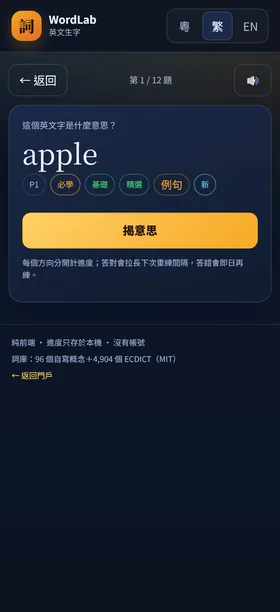
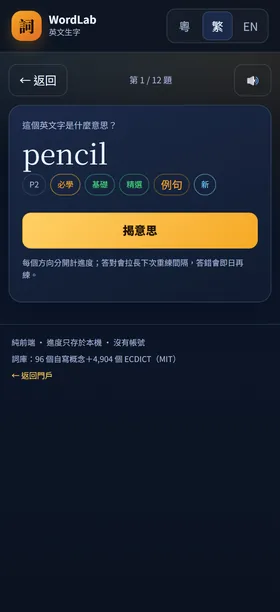
Update hub landing page

Changed region(s): [[0.0857, 0.2173, 0.4, 0.2794]]

diff --git a/wordlab/examples-pack7.js b/wordlab/examples-pack7.js
@@ -1,0 +1,102 @@
+window.WORDLAB_EXAMPLES = Object.assign(window.WORDLAB_EXAMPLES || {}, {
+  "medicine": { "exEn": "The medicine tastes bitter.", "exZh": "這藥很苦。", "source": "WordLab" },
+  "pain": { "exEn": "I have a pain in my leg.", "exZh": "我的腿很痛。", "source": "WordLab" },
+  "blood": { "exEn": "The cut has a little blood.", "exZh": "傷口有一點血。", "source": "WordLab" },
+  "bone": { "exEn": "The dog has a big bone.", "exZh": "狗有一根大骨頭。", "source": "WordLab" },
+  "brain": { "exEn": "We use our brain to think.", "exZh": "我們用大腦思考。", "source": "WordLab" },
+  "muscle": { "exEn": "This muscle hurts.", "exZh": "這塊肌肉很痛。", "source": "WordLab" },
+  "skin": { "exEn": "The sun can burn your skin.", "exZh": "太陽會曬傷皮膚。", "source": "WordLab" },
+  "stomach": { "exEn": "My stomach is full.", "exZh": "我的肚子很飽。", "source": "WordLab" },
+  "throat": { "exEn": "My throat hurts.", "exZh": "我的喉嚨很痛。", "source": "WordLab" },
+  "fever": { "exEn": "She has a fever.", "exZh": "她發燒了。", "source": "WordLab" },
+  "headache": { "exEn": "I have a headache.", "exZh": "我頭痛。", "source": "WordLab" },
+  "healthy": { "exEn": "Fruit is a healthy snack.", "exZh": "水果是健康的零食。", "source": "WordLab" },
+  "sick": { "exEn": "He is sick today.", "exZh": "他今天生病了。", "source": "WordLab" },
+  "asleep": { "exEn": "The baby is asleep.", "exZh": "嬰兒睡著了。", "source": "WordLab" },
+  "awake": { "exEn": "I am awake early.", "exZh": "我很早就醒了。", "source": "WordLab" },
+  "temperature": { "exEn": "The temperature is high today.", "exZh": "今天氣溫很高。", "source": "WordLab" },
+  "pilot": { "exEn": "The pilot flies the plane.", "exZh": "機師駕駛飛機。", "source": "WordLab" },
+  "sailor": { "exEn": "The sailor works on a ship.", "exZh": "水手在船上工作。", "source": "WordLab" },
+  "chef": { "exEn": "The chef cooks dinner.", "exZh": "廚師煮晚餐。", "source": "WordLab" },
+  "firefighter": { "exEn": "The firefighter is brave.", "exZh": "消防員很勇敢。", "source": "WordLab" },
+  "guard": { "exEn": "The guard stands at the gate.", "exZh": "守衛站在門口。", "source": "WordLab" },
+  "engineer": { "exEn": "The engineer builds bridges.", "exZh": "工程師建橋。", "source": "WordLab" },
+  "mechanic": { "exEn": "The mechanic fixes cars.", "exZh": "技工修理汽車。", "source": "WordLab" },
+  "painter": { "exEn": "The painter uses a brush.", "exZh": "畫家用畫筆。", "source": "WordLab" },
+  "musician": { "exEn": "The musician plays the piano.", "exZh": "音樂家彈鋼琴。", "source": "WordLab" },
+  "actor": { "exEn": "The actor is on stage.", "exZh": "演員在舞台上。", "source": "WordLab" },
+  "dancer": { "exEn": "The dancer moves gracefully.", "exZh": "舞蹈員優雅地移動。", "source": "WordLab" },
+  "gym": { "exEn": "We exercise at the gym.", "exZh": "我們在健身房運動。", "source": "WordLab" },
+  "pool": { "exEn": "The children swim in the pool.", "exZh": "孩子們在泳池游泳。", "source": "WordLab" },
+  "stadium": { "exEn": "The match is at the stadium.", "exZh": "比賽在體育場舉行。", "source": "WordLab" },
+  "theatre": { "exEn": "We watch a play at the theatre.", "exZh": "我們在劇院看話劇。", "source": "WordLab" },
+  "port": { "exEn": "The ship is in the port.", "exZh": "船在港口。", "source": "WordLab" },
+  "earth": { "exEn": "The earth goes around the sun.", "exZh": "地球圍繞太陽轉。", "source": "WordLab" },
+  "world": { "exEn": "The world is full of wonders.", "exZh": "世界充滿奇蹟。", "source": "WordLab" },
+  "land": { "exEn": "The boat reached the land.", "exZh": "船到達陸地。", "source": "WordLab" },
+  "soil": { "exEn": "The plant grows in the soil.", "exZh": "植物在土壤中生長。", "source": "WordLab" },
+  "stone": { "exEn": "The stone is smooth.", "exZh": "石頭很光滑。", "source": "WordLab" },
+  "mud": { "exEn": "My boots are covered in mud.", "exZh": "我的靴子沾滿泥。", "source": "WordLab" },
+  "lightning": { "exEn": "Lightning lit up the sky.", "exZh": "閃電照亮天空。", "source": "WordLab" },
+  "shadow": { "exEn": "My shadow follows me.", "exZh": "我的影子跟著我。", "source": "WordLab" },
+  "breeze": { "exEn": "A cool breeze is blowing.", "exZh": "吹來一陣涼風。", "source": "WordLab" },
+  "tide": { "exEn": "The tide comes in.", "exZh": "潮水上漲。", "source": "WordLab" },
+  "bright": { "exEn": "The room is bright.", "exZh": "房間很明亮。", "source": "WordLab" },
+  "dark": { "exEn": "The cave is dark.", "exZh": "洞穴很黑。", "source": "WordLab" },
+  "dirty": { "exEn": "My shoes are dirty.", "exZh": "我的鞋很髒。", "source": "WordLab" },
+  "pretty": { "exEn": "The flower is pretty.", "exZh": "花很美。", "source": "WordLab" },
+  "huge": { "exEn": "The whale is huge.", "exZh": "鯨魚很大。", "source": "WordLab" },
+  "tiny": { "exEn": "The seed is tiny.", "exZh": "種子很小。", "source": "WordLab" },
+  "sour": { "exEn": "The lemon is sour.", "exZh": "檸檬很酸。", "source": "WordLab" },
+  "weak": { "exEn": "The sick cat is weak.", "exZh": "生病的貓很虛弱。", "source": "WordLab" },
+  "cheap": { "exEn": "The pencil is cheap.", "exZh": "鉛筆很便宜。", "source": "WordLab" },
+  "expensive": { "exEn": "The watch is expensive.", "exZh": "手錶很貴。", "source": "WordLab" },
+  "quick": { "exEn": "The rabbit is quick.", "exZh": "兔子很快。", "source": "WordLab" },
+  "boil": { "exEn": "Boil the water.", "exZh": "把水煮沸。", "source": "WordLab" },
+  "mix": { "exEn": "Mix the flour and water.", "exZh": "把麵粉和水混合。", "source": "WordLab" },
+  "pour": { "exEn": "Pour the juice into the cup.", "exZh": "把果汁倒進杯子。", "source": "WordLab" },
+  "stir": { "exEn": "Stir the soup.", "exZh": "攪拌湯。", "source": "WordLab" },
+  "taste": { "exEn": "Taste the soup.", "exZh": "嚐嚐湯。", "source": "WordLab" },
+  "smell": { "exEn": "The flowers smell sweet.", "exZh": "花很香。", "source": "WordLab" },
+  "cry": { "exEn": "The baby starts to cry.", "exZh": "嬰兒開始哭。", "source": "WordLab" },
+  "stretch": { "exEn": "Stretch your arms.", "exZh": "伸展手臂。", "source": "WordLab" },
+  "bend": { "exEn": "Bend your knees.", "exZh": "屈膝。", "source": "WordLab" },
+  "kneel": { "exEn": "Please kneel down.", "exZh": "請跪下。", "source": "WordLab" },
+  "collect": { "exEn": "We collect shells on the beach.", "exZh": "我們在海灘收集貝殼。", "source": "WordLab" },
+  "sort": { "exEn": "Sort the books by colour.", "exZh": "按顏色分類書本。", "source": "WordLab" },
+  "measure": { "exEn": "Measure the length of the table.", "exZh": "量度桌子的長度。", "source": "WordLab" },
+  "weigh": { "exEn": "Weigh the bag.", "exZh": "稱一稱袋子的重量。", "source": "WordLab" },
+  "fix": { "exEn": "Dad can fix the chair.", "exZh": "爸爸會修理椅子。", "source": "WordLab" },
+  "dig": { "exEn": "We dig a hole.", "exZh": "我們挖一個洞。", "source": "WordLab" },
+  "hang": { "exEn": "Hang your coat on the hook.", "exZh": "把外套掛在掛鉤上。", "source": "WordLab" },
+  "lock": { "exEn": "Please lock the door.", "exZh": "請鎖門。", "source": "WordLab" },
+  "provide": { "exEn": "We provide food for the birds.", "exZh": "我們為鳥提供食物。", "source": "WordLab" },
+  "develop": { "exEn": "We develop new skills.", "exZh": "我們發展新技能。", "source": "WordLab" },
+  "increase": { "exEn": "The number will increase.", "exZh": "數量會增加。", "source": "WordLab" },
+  "reduce": { "exEn": "We reduce waste at school.", "exZh": "我們在學校減少浪費。", "source": "WordLab" },
+  "accept": { "exEn": "I accept your gift.", "exZh": "我接受你的禮物。", "source": "WordLab" },
+  "prepare": { "exEn": "We prepare for the test.", "exZh": "我們為測驗做準備。", "source": "WordLab" },
+  "wonder": { "exEn": "I wonder why the sky is blue.", "exZh": "我想知道天空為何是藍色。", "source": "WordLab" },
+  "fail": { "exEn": "Do not be afraid to fail.", "exZh": "不要害怕失敗。", "source": "WordLab" },
+  "discuss": { "exEn": "We discuss the story in class.", "exZh": "我們在課堂討論故事。", "source": "WordLab" },
+  "guess": { "exEn": "Can you guess my age?", "exZh": "你可以猜我的年齡嗎？", "source": "WordLab" },
+  "prove": { "exEn": "Let me prove it to you.", "exZh": "讓我證明給你看。", "source": "WordLab" },
+  "forget": { "exEn": "Do not forget your bag.", "exZh": "不要忘記你的袋。", "source": "WordLab" },
+  "remove": { "exEn": "Please remove your shoes.", "exZh": "請脫鞋。", "source": "WordLab" },
+  "enjoy": { "exEn": "We enjoy the picnic.", "exZh": "我們享受野餐。", "source": "WordLab" },
+  "imagine": { "exEn": "Imagine you are a bird.", "exZh": "想像你是一隻鳥。", "source": "WordLab" },
+  "green": { "exEn": "The leaf is green.", "exZh": "葉子是綠色的。", "source": "WordLab" },
+  "yellow": { "exEn": "The banana is yellow.", "exZh": "香蕉是黃色的。", "source": "WordLab" },
+  "brown": { "exEn": "The bear is brown.", "exZh": "熊是棕色的。", "source": "WordLab" },
+  "pink": { "exEn": "The flower is pink.", "exZh": "花是粉紅色的。", "source": "WordLab" },
+  "purple": { "exEn": "The grape is purple.", "exZh": "葡萄是紫色的。", "source": "WordLab" },
+  "gold": { "exEn": "The ring is gold.", "exZh": "戒指是金色的。", "source": "WordLab" },
+  "silver": { "exEn": "The spoon is silver.", "exZh": "匙羹是銀色的。", "source": "WordLab" },
+  "life": { "exEn": "Life is full of surprises.", "exZh": "生活充滿驚喜。", "source": "WordLab" },
+  "fact": { "exEn": "It is a fact that water boils.", "exZh": "水會沸騰是事實。", "source": "WordLab" },
+  "future": { "exEn": "We plan for the future.", "exZh": "我們為未來計劃。", "source": "WordLab" },
+  "past": { "exEn": "We learn from the past.", "exZh": "我們從過去學習。", "source": "WordLab" },
+  "culture": { "exEn": "Food is part of culture.", "exZh": "食物是文化的一部分。", "source": "WordLab" },
+  "surprise": { "exEn": "The party is a surprise.", "exZh": "派對是一個驚喜。", "source": "WordLab" },
+  "path": { "exEn": "Follow the path to the beach.", "exZh": "沿著小路去海灘。", "source": "WordLab" }
+});

diff --git a/wordlab/sw.js b/wordlab/sw.js
@@ -2,7 +2,7 @@
  * Network-first：有網時攞最新，斷網時用快取；導航請求 fallback 去 index.html。
  * 只快取本站靜態檔，冇第三方。
  */
-const CACHE = 'wordlab-v13';
+const CACHE = 'wordlab-v14';
 const ASSETS = [
   './',
   './index.html',
@@ -15,6 +15,7 @@ const ASSETS = [
   './examples-pack4.js',
   './examples-pack5.js',
   './examples-pack6.js',
+  './examples-pack7.js',
   './app.js',
   './manifest.webmanifest',
 ];

diff --git a/wordlab/index.html b/wordlab/index.html
@@ -47,6 +47,7 @@
     <script src="examples-pack4.js"></script>
     <script src="examples-pack5.js"></script>
     <script src="examples-pack6.js"></script>
+    <script src="examples-pack7.js"></script>
     <script src="app.js"></script>
     <script>
       if ('serviceWorker' in navigator) {
